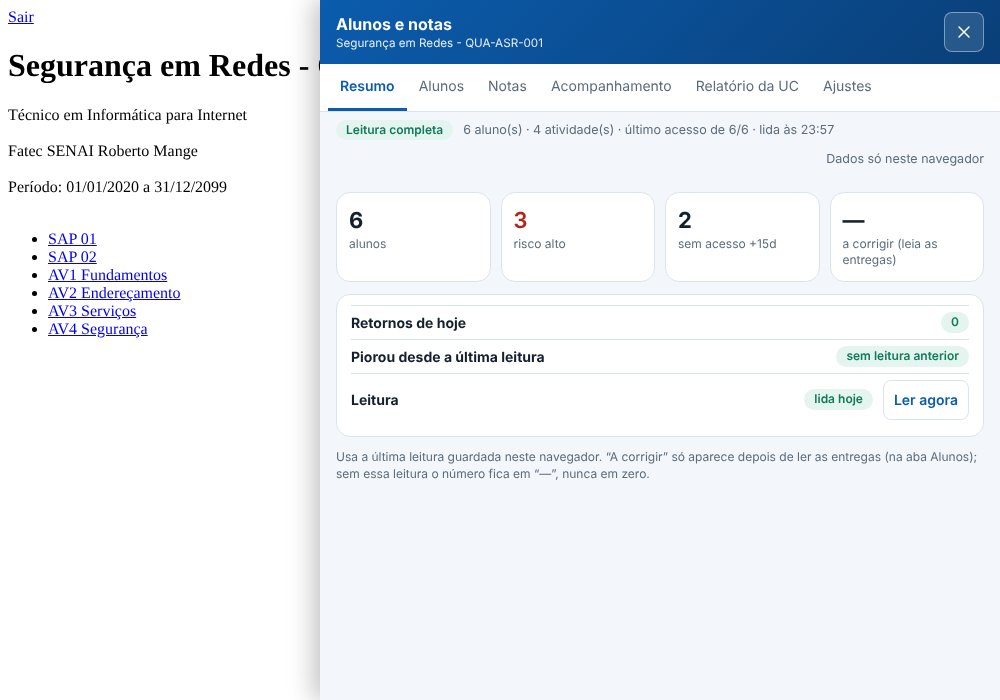
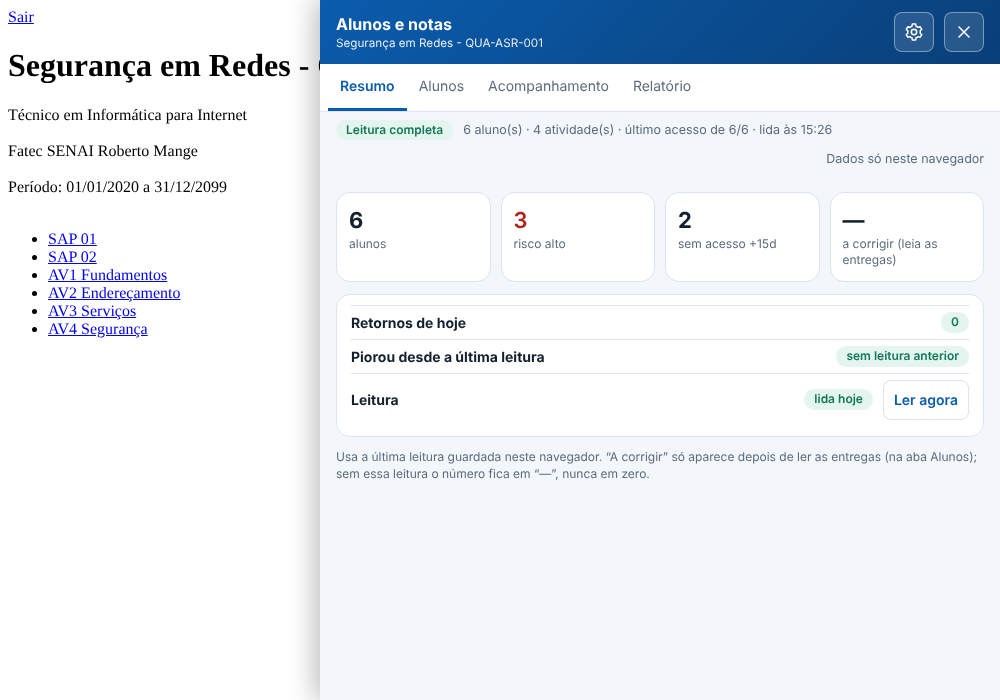
feat: Relatório da turma e Criar conteúdo enxutos; versão 0.18.2
Claude-Session: https://claude.ai/code/session_018SDmnztaCV1uHBsRTSaU9u

diff --git a/src/modules/alunos/turma-ui.js b/src/modules/alunos/turma-ui.js
@@ -14,6 +14,7 @@ h2{margin:0 0 2px;font-size:18px}.sub{color:var(--m);font-size:12.5px;margin:0 0
 button{font:inherit;min-height:36px;padding:0 14px;border-radius:8px;border:1px solid var(--bd);background:var(--s);color:inherit;cursor:pointer}
 button.pri{background:var(--p);border-color:var(--p);color:#fff}button:disabled{opacity:.5;cursor:default}
 button:focus-visible,input:focus-visible{outline:3px solid var(--f);outline-offset:2px}
+.srow{display:flex;gap:8px;align-items:center;margin-top:8px}.srow .q{margin-top:0;flex:1;width:auto}.srow button{white-space:nowrap}
 .q{width:100%;min-height:38px;margin-top:8px;padding:0 12px;border-radius:8px;border:1px solid var(--bd);background:var(--s);color:inherit;font:inherit}
 .list{display:grid;gap:6px;max-height:46vh;overflow:auto}
 .it{display:flex;gap:10px;align-items:center;border:1px solid var(--bd);background:var(--c);border-radius:10px;padding:8px 10px}
@@ -22,6 +23,11 @@ button:focus-visible,input:focus-visible{outline:3px solid var(--f);outline-offs
 .prog{height:10px;border-radius:6px;background:var(--bd);overflow:hidden;margin:8px 0}.prog i{display:block;height:100%;background:var(--p);width:0;transition:width .3s}
 .msg{margin-top:10px;padding:8px 10px;border-radius:8px;font-size:13px;background:var(--c)}.msg.warn{background:var(--wnbg);color:var(--wn)}.msg.ok{background:var(--okbg);color:var(--ok)}.msg.err{background:var(--erbg);color:var(--er)}
 .opt{margin-top:10px;padding:8px 10px;border:1px solid var(--bd);border-radius:10px;background:var(--c);display:grid;gap:4px;font-size:13px}.opt strong{font-size:12px;color:var(--m);text-transform:uppercase;letter-spacing:.05em}.opt label{display:flex;gap:8px;align-items:center;cursor:pointer;min-height:28px}.opt label.off{opacity:.55;cursor:default}.opt .hint{color:var(--m);font-size:12px;margin-left:26px}
+.opts{display:flex;gap:10px;align-items:center;flex-wrap:wrap;margin-top:12px}.opts .sp{flex:1}
+.seg{display:inline-flex;padding:3px;border-radius:10px;background:var(--bd);gap:2px}.seg button{border:0;background:none;min-height:32px;border-radius:8px;color:var(--m);padding:0 12px}.seg button[aria-pressed=true]{background:var(--s);color:var(--p);font-weight:600;box-shadow:0 1px 2px rgba(0,0,0,.2)}
+.chips{display:flex;gap:6px}.chip{border-radius:999px;min-height:32px;padding:0 12px}.chip[aria-pressed=true]{background:#e4edfa;border-color:var(--p);color:#1a4b9f;font-weight:600}
+@media (prefers-color-scheme:dark){.chip[aria-pressed=true]{background:#1d3358;color:#cfe0ff}}
+.hintx{margin:6px 0 0;color:var(--m);font-size:12.5px}
 .row2{display:flex;gap:8px;justify-content:flex-end;margin-top:12px;flex-wrap:wrap}.empty{padding:14px;color:var(--m);text-align:center}
 @media (prefers-reduced-motion:reduce){*{transition-duration:.01ms!important}}`;
 
@@ -57,16 +63,17 @@ button:focus-visible,input:focus-visible{outline:3px solid var(--f);outline-offs
     const countOn = () => courses.filter(c => sel.has(c.id)).length;
     function draw() {
       box.replaceChildren(h('h2', {}, 'Relatório da turma'),
-        h('p', { class: 'sub' }, 'Escolha as unidades curriculares. Lê a lista de participantes de cada uma (uma por vez, com pausa) e mostra as turmas com o número de matriculados. Nada é gravado no Moodle.'));
+        h('p', { class: 'sub' }, 'Só leitura: nada é gravado no Moodle.'));
       if (!courses.length) { box.append(h('div', { class: 'empty' }, 'Não encontrei cursos nesta página. Role a página até os cursos aparecerem (ou use o filtro “Em andamento” do Moodle) e abra de novo.'), h('div', { class: 'row2' }, h('button', { type: 'button', onclick: close }, 'Fechar'))); return; }
       const fold = t => String(t || '').normalize('NFD').replace(/[̀-ͯ]/g, '').toLowerCase();
       const visible = () => { const q = fold(st.q).trim(); return q ? courses.filter(c => fold(`${c.name} ${c.category || ''}`).includes(q)) : courses; };
       const searchIn = h('input', { type: 'search', class: 'q', placeholder: 'Buscar curso ou categoria', 'aria-label': 'Buscar curso ou categoria', value: st.q || '', disabled: st.running });
-      const barEl = h('div', { class: 'bar' }), listEl = h('div', { class: 'list' });
+      const barEl = h('div', { class: 'bar' }), listEl = h('div', { class: 'list' }), toggleEl = h('span');
       function refresh() {
         const vis = visible(); const allOn = vis.length > 0 && vis.every(c => sel.has(c.id)); const hidden = countOn() - vis.filter(c => sel.has(c.id)).length;
-        const all = h('button', { type: 'button', disabled: st.running || !vis.length, onclick: () => { if (allOn) vis.forEach(c => sel.delete(c.id)); else vis.forEach(c => sel.add(c.id)); draw(); } }, st.q && st.q.trim() ? (allOn ? 'Limpar os encontrados' : 'Selecionar os encontrados') : (allOn ? 'Limpar seleção' : 'Selecionar todas'));
-        barEl.replaceChildren(all, h('span', { class: 'sp', role: 'status', 'aria-live': 'polite' }, `${countOn() ? `${countOn()} unidade(s) selecionada(s)` : 'Nenhuma unidade selecionada'}${st.q && st.q.trim() ? ` · ${vis.length} de ${courses.length} na busca${hidden ? ` · ${hidden} selecionada(s) fora da busca` : ''}` : ''}`));
+        const all = h('button', { type: 'button', disabled: st.running || !vis.length, onclick: () => { if (allOn) vis.forEach(c => sel.delete(c.id)); else vis.forEach(c => sel.add(c.id)); draw(); } }, st.q && st.q.trim() ? (allOn ? 'Limpar' : 'Marcar encontrados') : (allOn ? 'Limpar' : 'Marcar todas'));
+        toggleEl.replaceChildren(all);
+        barEl.replaceChildren(h('span', { class: 'sp', role: 'status', 'aria-live': 'polite' }, `${countOn() ? `${countOn()} unidade(s) selecionada(s)` : 'Nenhuma unidade selecionada'}${st.q && st.q.trim() ? ` · ${vis.length} de ${courses.length} na busca${hidden ? ` · ${hidden} selecionada(s) fora da busca` : ''}` : ''}`));
         listEl.replaceChildren(...(vis.length ? vis.map(c => {
           const s = st.status.get(c.id);
           const chk = h('input', { type: 'checkbox', checked: sel.has(c.id), disabled: st.running, onchange: e => { if (e.target.checked) sel.add(c.id); else sel.delete(c.id); draw(); } });
@@ -74,14 +81,14 @@ button:focus-visible,input:focus-visible{outline:3px solid var(--f);outline-offs
         }) : [h('div', { class: 'empty' }, `Nenhum curso encontrado para “${st.q.trim()}”.`)]));
       }
       searchIn.addEventListener('input', () => { st.q = searchIn.value; refresh(); });
-      box.append(searchIn, barEl, listEl);
+      box.append(h('div', { class: 'srow' }, searchIn, toggleEl), barEl, listEl);
       refresh();
-      const chk2 = (obj, key, label, hint, dis) => h('label', { class: dis ? 'off' : '' }, h('input', { type: 'checkbox', checked: obj[key], disabled: st.running || dis, onchange: e => { obj[key] = e.target.checked; draw(); } }), label);
-      box.append(h('div', { class: 'opt' }, h('strong', {}, 'O que ler'),
-        chk2(st.inc, 'mat', 'Matrículas por turma (leve)'),
-        chk2(st.inc, 'notas', 'Notas e situação por UC (mais pesado)'), h('span', { class: 'hint' }, 'Lê também o livro de notas de cada UC.')),
-        h('div', { class: 'opt' }, h('strong', {}, 'Saída'),
-          chk2(st.out, 'html', 'Página HTML', '', !st.inc.mat), chk2(st.out, 'xlsx', 'Excel', '')));
+      const seg = (txt, on, fn) => h('button', { type: 'button', 'aria-pressed': on ? 'true' : 'false', disabled: st.running, onclick: fn }, txt);
+      const chip = (txt, obj, key) => h('button', { type: 'button', class: 'chip', 'aria-pressed': obj[key] ? 'true' : 'false', disabled: st.running, onclick: () => { obj[key] = !obj[key]; draw(); } }, txt);
+      box.append(h('div', { class: 'opts' },
+        h('div', { class: 'seg', role: 'group', 'aria-label': 'O que ler' }, seg('Só matrículas', !st.inc.notas, () => { st.inc.mat = true; st.inc.notas = false; draw(); }), seg('Com notas', st.inc.notas, () => { st.inc.mat = true; st.inc.notas = true; draw(); })),
+        h('span', { class: 'sp' }), h('div', { class: 'chips', role: 'group', 'aria-label': 'Saída' }, chip('HTML', st.out, 'html'), chip('Excel', st.out, 'xlsx'))),
+        h('p', { class: 'hintx' }, st.inc.notas ? '“Com notas” é mais lento: lê também o livro de notas de cada UC.' : 'Lê só a lista de participantes de cada UC (uma por vez, com pausa).'));
       if (st.running) box.append(h('div', { class: 'prog', role: 'progressbar', 'aria-label': 'Progresso' }, h('i', { style: `width:${st.pct || 0}%` })), h('div', { class: 'msg', role: 'status', 'aria-live': 'polite' }, st.msg || 'Lendo…'));
       if (st.result) box.append(h('div', { class: `msg ${st.result.tone}`, role: 'status' }, st.result.text));
       const pend = st.running ? [] : pendentes(); const lidas = courses.filter(c => sel.has(c.id) && lido(c.id)).length;
@@ -89,7 +96,7 @@ button:focus-visible,input:focus-visible{outline:3px solid var(--f);outline-offs
         !st.running && pend.length ? h('button', { type: 'button', class: 'pri', onclick: () => generate(pend.map(c => c.id)) }, `Tentar só as não verificadas (${pend.length})`) : null,
         !st.running && pend.length && lidas ? h('button', { type: 'button', onclick: entregar }, 'Gerar assim mesmo') : null,
         !st.running && st.resumo ? h('button', { type: 'button', onclick: copiar }, 'Copiar resumo') : null,
-        st.running || pend.length ? null : h('button', { class: 'pri', type: 'button', disabled: !countOn() || !(st.inc.mat || st.inc.notas) || !(st.out.html || st.out.xlsx), onclick: () => generate() }, st.reports.size || st.mat.size ? 'Ler de novo' : 'Gerar relatório')));
+        st.running || pend.length ? null : h('button', { class: 'pri', type: 'button', disabled: !countOn() || !(st.inc.mat || st.inc.notas) || !(st.out.html || st.out.xlsx), onclick: () => generate() }, st.reports.size || st.mat.size ? 'Ler de novo' : (countOn() ? `Gerar (${countOn()} UC${countOn() > 1 ? 's' : ''})` : 'Gerar relatório'))));
     }
 
     // Leituras já feitas nesta janela. notas: st.reports (id → {students, complete, reason}); matrículas: st.mat (id → {alunos, complete, reason}).

diff --git a/src/modules/criar/ui.js b/src/modules/criar/ui.js
@@ -27,7 +27,10 @@ button{font:inherit;min-height:38px;padding:0 16px;border-radius:9px;border:1px 
 table{width:100%;border-collapse:collapse;margin-top:6px}th,td{padding:6px 8px;border-bottom:1px solid var(--bd);text-align:left;font-size:13px;vertical-align:top}th{background:var(--c);color:var(--m);font-size:11px;text-transform:uppercase;letter-spacing:.05em}
 .msg{margin-top:10px;padding:8px 10px;border-radius:8px;font-size:13px;background:var(--wnbg);color:var(--wn)}.msg.ok{background:var(--okbg);color:var(--ok)}.msg.err{background:var(--erbg);color:var(--er)}.msg.in{background:var(--c);color:inherit}
 .prog{height:10px;border-radius:6px;background:var(--bd);overflow:hidden;margin:10px 0}.prog i{display:block;height:100%;background:var(--p);transition:width .3s}
-.cw{margin:4px 0}.sec{margin:2px 0 6px 26px}.okd{color:#1b7a3d;font-weight:600}.avd{color:#b3411c;font-weight:600}
+.cw{margin:4px 0}.sec{margin:2px 0 6px 26px}.cw.on{display:grid;grid-template-columns:minmax(0,1fr) minmax(0,1.3fr);gap:8px;align-items:start}.cw.on .sec{margin:0}@media(max-width:560px){.cw.on{grid-template-columns:1fr}.cw.on .sec{margin:0 0 4px 26px}}
+.tag{display:inline-block;margin-left:8px;padding:2px 9px;border-radius:99px;background:var(--soft);color:var(--p);font-size:12px;font-weight:700;vertical-align:middle}
+details.cmp{margin:8px 0;border:1px dashed var(--bd);border-radius:8px;padding:6px 10px}details.cmp summary{cursor:pointer;color:var(--m)}
+.imp{display:flex;gap:8px;align-items:center;flex-wrap:wrap;margin:8px 0}.okd{color:#1b7a3d;font-weight:600}.avd{color:#b3411c;font-weight:600}
 code{font-family:ui-monospace,Menlo,Consolas,monospace;font-size:12.5px}
 @media (prefers-reduced-motion:reduce){*{transition-duration:.01ms!important}}`;
 
@@ -139,7 +142,7 @@ code{font-family:ui-monospace,Menlo,Consolas,monospace;font-size:12.5px}
     const htmlPara = c => C.preencher(textoLimpo(), valoresPara(c)).html;
 
     const passos = () => h('ol', { class: 'steps', 'aria-label': 'Passos' }, ['Escolher', 'Preencher', 'Prévia', 'Criar'].map((n, i) => h('li', { class: i === st.passo ? 'on' : i < st.passo ? 'done' : '', 'aria-current': i === st.passo ? 'step' : null }, `${i + 1}. ${n}`)));
-    const cab = sub => [h('div', { class: 'top' }, h('div', {}, h('h2', {}, 'Criar conteúdo'), h('p', { class: 'sub' }, sub))), passos()];
+    const cab = sub => [h('div', { class: 'top' }, h('div', {}, h('h2', {}, 'Criar conteúdo', h('span', { class: 'tag', title: 'Tudo é criado oculto para os alunos' }, 'sempre oculto')), h('p', { class: 'sub' }, sub))), passos()];
     const rodape = (...bt) => h('div', { class: 'row2' }, ...bt);
 
     function draw() {
@@ -169,22 +172,24 @@ code{font-family:ui-monospace,Menlo,Consolas,monospace;font-size:12.5px}
         const t = await f.text(); st.texto = /\.txt$/i.test(f.name) ? t.split(/\n{2,}/).map(p => `<p>${C.esc(p.trim()).replace(/\n/g, '<br>')}</p>`).join('') : t;
         st.arquivo = `Lido: ${f.name}. Scripts, estilos, imagens e eventos foram removidos.`; draw();
       } });
+      const impBtn = h('button', { type: 'button', onclick: () => arq.click() }, 'Importar DOCX ou HTML'); arq.style.display = 'none';
       const ehAuto = c => AUTO.includes(c) && !(c === 'tutor' && !tutor);
       const nCampos = camposDoTexto().filter(c => !ehAuto(c));
       const aut = camposDoTexto().filter(ehAuto);
-      const tab = (nCampos.length || aut.length) ? h('table', {}, h('thead', {}, h('tr', {}, h('th', {}, 'Campo'), h('th', {}, 'Valor'))), h('tbody', {},
+      const tabela = (nCampos.length || aut.length) ? h('table', {}, h('thead', {}, h('tr', {}, h('th', {}, 'Campo'), h('th', {}, 'Valor'))), h('tbody', {},
         aut.map(c => h('tr', {}, h('td', {}, h('code', {}, `{{${c}}}`)), h('td', {}, 'automático'))),
         nCampos.map(c => h('tr', {}, h('td', {}, h('code', {}, `{{${c}}}`)), h('td', {}, h('input', { type: 'text', placeholder: c === 'tutor' ? 'não achei seu nome: digite aqui' : 'preencha', 'aria-label': `Valor de ${c}`, value: st.custom[c] || '', oninput: e => { st.custom[c] = e.target.value; } })))))) : null;
+      const tab = h('details', { class: 'cmp', open: nCampos.length > 0 }, h('summary', {}, `Campos do modelo (${nCampos.length + aut.length})`), h('p', { class: 'sub' }, 'Use campos como {{uc}}, {{turma}}, {{tutor}}, {{prazo}} ou crie os seus ({{link_sala}}).'), tabela);
       const datas = m.modname === 'assign' ? h('div', { class: 'two' }, h('div', {}, h('label', { class: 'l' }, 'Abertura'), h('input', { type: 'datetime-local', value: st.abertura, 'aria-label': 'Abertura', onchange: e => { st.abertura = e.target.value; } })), h('div', {}, h('label', { class: 'l' }, 'Prazo'), h('input', { type: 'datetime-local', value: st.prazo, 'aria-label': 'Prazo de entrega', onchange: e => { st.prazo = e.target.value; } }))) : null;
-      const lista = cursos.length ? h('div', { class: 'list' }, cursos.map(c => h('div', { class: 'cw' }, h('label', { class: 'it' }, h('input', { type: 'checkbox', checked: st.sel.has(c.id), 'aria-label': c.name, onchange: e => { if (e.target.checked) st.sel.add(c.id); else st.sel.delete(c.id); draw(); carregarSecoes(); } }), h('b', {}, c.name), c.category ? h('small', {}, c.category) : null), st.sel.has(c.id) ? secaoCtl(c) : null))) : h('div', { class: 'msg' }, 'Não achei cursos nesta página. Abra a página de um curso ou “Meus cursos”.');
-      mount(...cab('Edite o texto e escolha onde criar.'),
+      const lista = cursos.length ? h('div', { class: 'list' }, cursos.map(c => h('div', { class: `cw${st.sel.has(c.id) ? ' on' : ''}` }, h('label', { class: 'it' }, h('input', { type: 'checkbox', checked: st.sel.has(c.id), 'aria-label': c.name, onchange: e => { if (e.target.checked) st.sel.add(c.id); else st.sel.delete(c.id); draw(); carregarSecoes(); } }), h('b', {}, c.name), c.category ? h('small', {}, c.category) : null), st.sel.has(c.id) ? secaoCtl(c) : null))) : h('div', { class: 'msg' }, 'Não achei cursos nesta página. Abra a página de um curso ou “Meus cursos”.');
+      mount(...cab('Passo 2 de 4 · Preencher'),
         h('label', { class: 'l' }, 'Nome'), nome,
         h('label', { class: 'l' }, m.modname === 'label' ? 'Texto (HTML simples)' : 'Descrição (HTML simples)'), txt,
-        h('div', { class: 'row2', style: 'justify-content:flex-start;margin-top:6px;align-items:center' }, h('span', {}, 'Ou importe um modelo:'), arq),
+        h('div', { class: 'imp' }, impBtn, arq),
         st.arquivo ? h('div', { class: 'msg in', role: 'status' }, st.arquivo) : null,
-        h('p', { class: 'sub' }, 'Use campos como {{uc}}, {{turma}}, {{tutor}}, {{prazo}} ou crie os seus ({{link_sala}}).'), tab,
+        tab,
         datas,
-        h('div', { class: 'two' }, h('div', {}, h('label', { class: 'l' }, 'Procurar seção por nome (opcional)'), h('input', { type: 'text', value: st.busca, placeholder: 'ex.: Unidade 2', 'aria-label': 'Procurar seção por nome', oninput: e => { st.busca = C.clean(e.target.value); aplicarBusca(); } }), h('p', { class: 'sub' }, 'Cada curso tem as suas seções. Escolha a certa em cada curso abaixo.')), h('div', {}, h('label', { class: 'l' }, 'Visibilidade'), h('input', { type: 'text', value: 'Oculto para alunos (sempre)', disabled: true }))),
+        h('div', {}, h('div', {}, h('label', { class: 'l' }, 'Procurar seção por nome (opcional)'), h('input', { type: 'text', value: st.busca, placeholder: 'ex.: Unidade 2', 'aria-label': 'Procurar seção por nome', oninput: e => { st.busca = C.clean(e.target.value); aplicarBusca(); } }), h('p', { class: 'sub' }, 'Cada curso tem as suas seções. Escolha a certa em cada curso abaixo.'))),
         h('label', { class: 'l' }, cursoAtual ? 'Onde criar' : 'Onde criar (escolha os cursos)'), lista,
         rodape(h('span', { class: 'sp', role: 'status' }, `${st.sel.size} curso(s) selecionado(s)`), h('button', { type: 'button', onclick: () => { st.passo = 0; draw(); } }, 'Voltar'), h('button', { type: 'button', class: 'pri', disabled: !ok, onclick: irPrevia }, 'Ver prévia')));
     }

diff --git a/src/modules/alunos/novidades.js b/src/modules/alunos/novidades.js
@@ -2,6 +2,7 @@
 (function (root) {
   'use strict';
   root.ALN.novidades = [
+    { versao: '0.18.2', itens: ['Painel Alunos com 4 abas (Resumo, Alunos, Acompanhamento, Relatório); Notas virou Lista | Notas e Ajustes ficou na engrenagem', 'Relatório da turma e Criar conteúdo mais enxutos: menos texto, escolhas rápidas e cada curso em uma linha'] },
     { versao: '0.18.1', itens: ['Menu enxuto: só o que serve para a página, sem descrições, com o apoio atrás da engrenagem e ícones em quadrado arredondado azul'] },
     { versao: '0.18.0', itens: ['Criar conteúdo (teste): fórum de apresentação, atividade de envio e texto de boas-vindas, com prévia, tudo criado oculto e conferido', 'Seção escolhida pelo nome em cada curso, com trava se a seção mudar', 'Importar modelo em DOCX, HTML ou texto, com {{campos}}', 'Relatório da turma com matriculados e painel dinâmico (HTML), com Notas por UC e Atenção no fim'] },
     { versao: '0.17.0', itens: ['Menu em aba na borda direita (não cobre mais o VLibras), com atalho Alt+U e setas', 'Ícone próprio por ferramenta, cor única (azul SENAI) e aviso “não se aplica aqui”', 'Mover aba: ajusta a altura e lembra', 'Meus dados inclui o cronograma importado e a altura da aba'] },

diff --git a/docs/contexto/memory.md b/docs/contexto/memory.md
@@ -200,3 +200,5 @@ Menu em aba + cor única + Meus dados com cronograma/aba. A v0.16.0 já existia 
 - 2026-11-11: Releases v0.17.0, v0.18.0 e v0.18.1 publicadas pelo workflow Release (Run workflow, via Chrome do usuário). Adicionados CODE_OF_CONDUCT, docs/projeto/GITHUB.md (config, publicação e histórico), config de issues sem link para Discussões desativadas, script de configuração com descrição/tópicos novos. Social preview e alertas de segurança só pelo site.
 
 - 2026-11-11: Painel Alunos implementado com 4 abas (Resumo, Alunos [Lista|Notas], Acompanhamento, Relatório) e Ajustes na engrenagem do cabeçalho (e2e 125/125). Mockup docs/mockups/telas-enxutas.png (Relatório da turma e Criar conteúdo) enviado ao usuário; implementar só após aprovação. Versão (provável 0.18.2) ainda não definida.
+
+- 2026-11-11: Usuário aprovou o mockup `telas-enxutas` e pediu para implementar. Relatório da turma: modo só-notas removido (Com notas = matrículas + notas). Criar conteúdo: visibilidade vira etiqueta fixa 'sempre oculto'. Versão 0.18.2 (visual/organização; sem função nova). Sem push até o 'pode subir'.

diff --git a/CHANGELOG.md b/CHANGELOG.md
@@ -1,5 +1,15 @@
 # Changelog
 
+## 0.18.2 — 2026-11-11
+
+### Mudou
+- **Painel Alunos com 4 abas**: Resumo, Alunos, Acompanhamento e Relatório. “Notas” virou uma visão dentro de Alunos (seletor **Lista | Notas**) e “Ajustes” passou para a engrenagem ⚙ do cabeçalho do painel. Nenhuma função saiu.
+- **Relatório da turma mais enxuto**: busca e “Limpar” na mesma linha; “O que ler” virou **Só matrículas | Com notas**; a saída virou dois botões (**HTML**, **Excel**); o botão final mostra o total (“Gerar (3 UCs)”). “Com notas” agora lê também as matrículas (não existe mais o modo só de notas).
+- **Criar conteúdo mais enxuto**: etiqueta “sempre oculto” no título (a caixa de visibilidade saiu), botão **Importar DOCX ou HTML**, tabela de campos recolhida em “Campos do modelo (N)” (abre sozinha quando há campo para preencher) e cada curso em uma linha, com o nome ao lado da escolha da seção.
+
+### Interno
+- Só visual e organização; sem permissão nova. Validado só no Moodle simulado.
+
 ## 0.18.1 — 2026-11-10
 
 ### Mudou

diff --git a/docs/contexto/task.md b/docs/contexto/task.md
@@ -74,6 +74,7 @@ Trabalhar uma por vez, na ordem. Decisões importantes vão para `memory.md`.
 - [x] N10 Criar conteúdo (fórum, envio, texto) com prévia, oculto e conferido — código e e2e prontos; HOMOLOGAR no SENAI e FIEG antes de chamar de validado.
 - [x] N11 Criar conteúdo: seção pelo nome em cada curso (com trava se mudar) e importar DOCX — HOMOLOGAR no Moodle real.
 - [x] N13 Menu enxuto contextual (estilo C), apoio atrás da engrenagem.
-- [ ] N14 Painel Alunos com 4 abas (Resumo, Alunos, Acompanhamento, Relatório).
+- [x] N14 Painel Alunos com 4 abas (Resumo, Alunos, Acompanhamento, Relatório).
+- [x] N15 Relatório da turma e Criar conteúdo enxutos (0.18.2).
 - [ ] N12 Criar conteúdo fase 3: anexar PDF (precisa mapear o upload do Moodle real), bloco HTML lateral, desfazer, lote por turma, integração com Cronograma.
 - [x] N9 Painel HTML dinâmico das turmas + Notas por UC com leitura parcial — testar no Moodle real.
